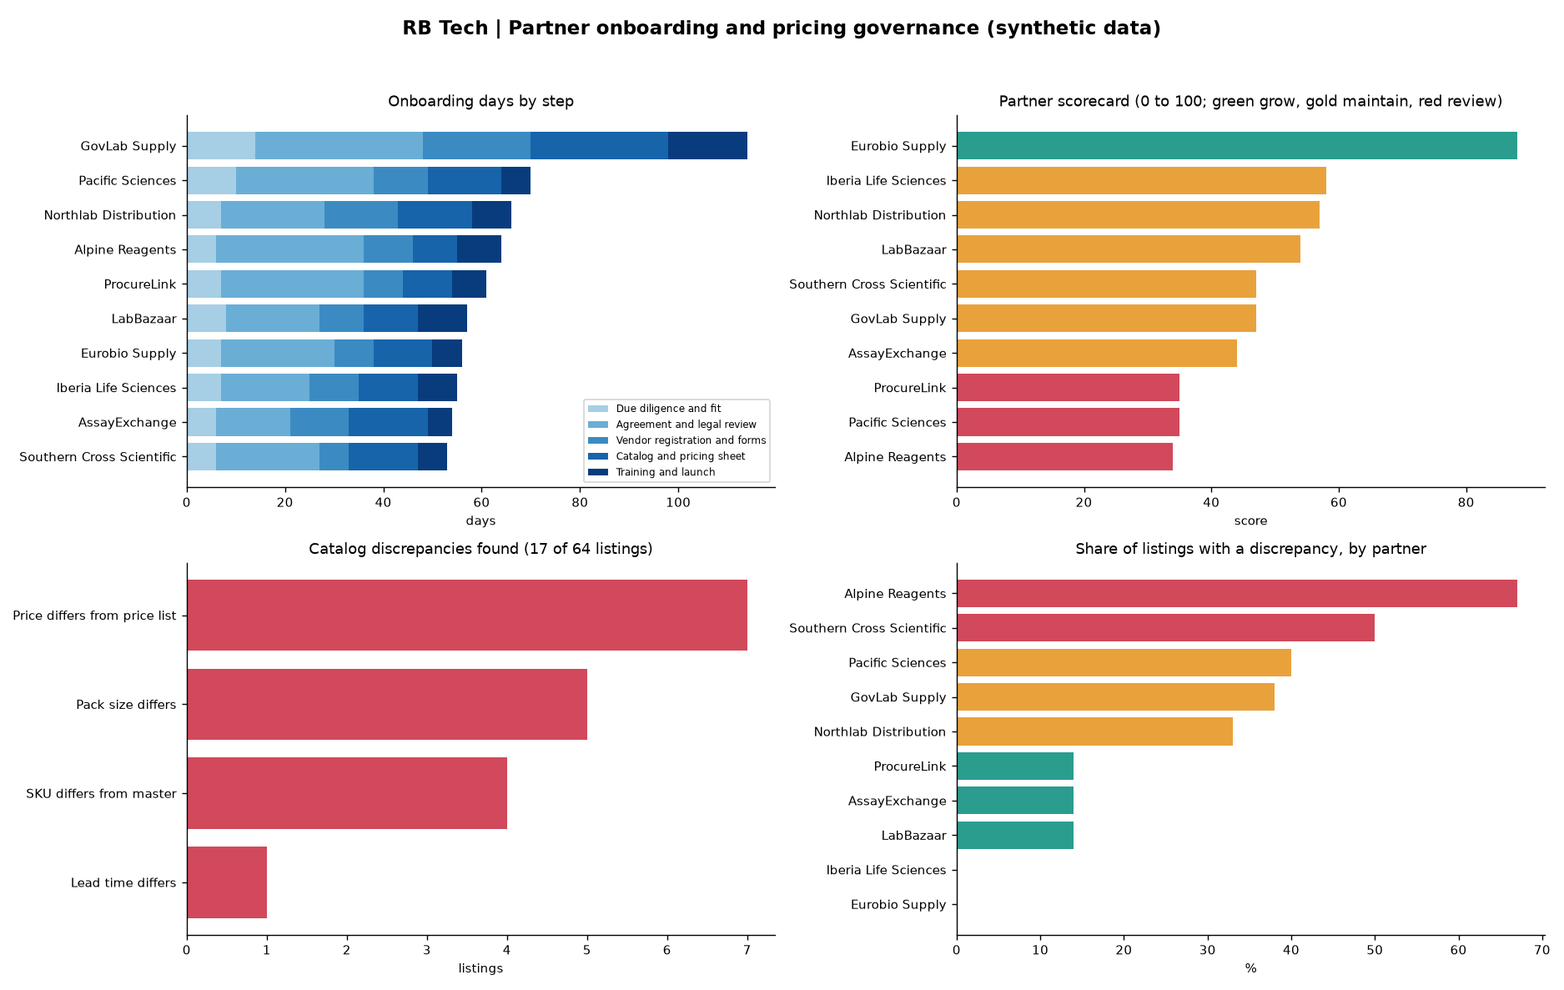
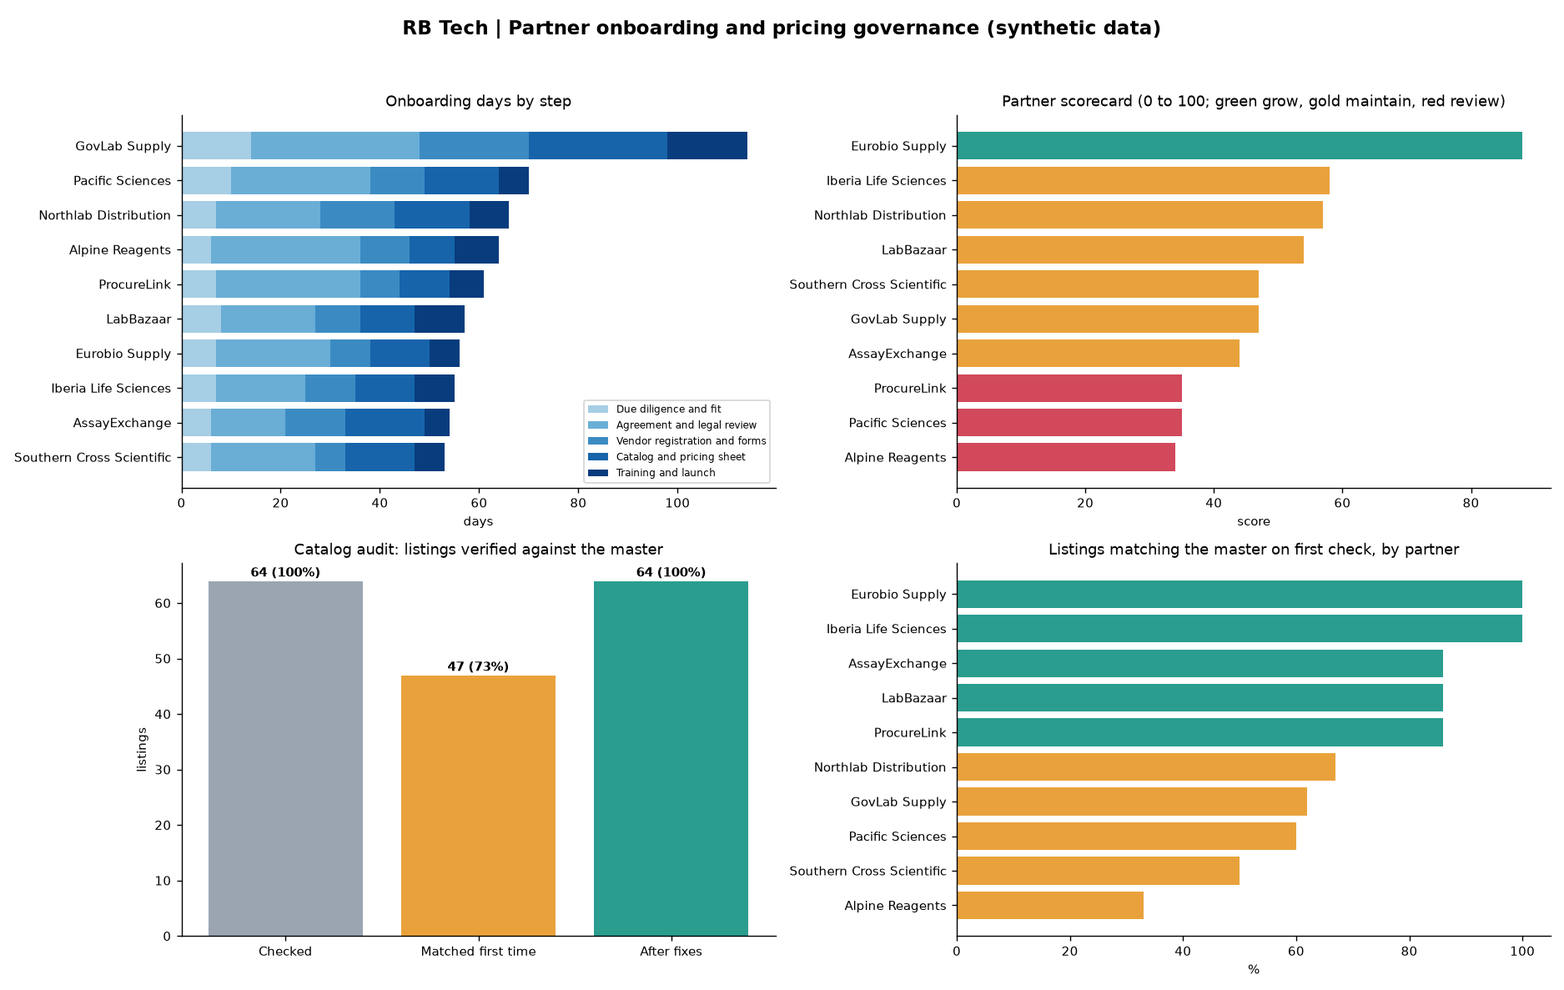
Add forecast suite (08), simplify forecast views (01), reframe listing audit as before/after accuracy (04, 14)

diff --git a/08-budget-forecast-pnl/scripts/forecast_suite.py b/08-budget-forecast-pnl/scripts/forecast_suite.py
@@ -1,0 +1,147 @@
+"""Forecast suite for RB Tech (fictional): five forecasts that answer five different questions.
+
+1 Inbound lead forecast  2 Deal and revenue plan (reverse funnel)  3 Revenue recognition forecast
+4 Product forecast       5 Demand (units and stock cover) forecast
+All numbers are invented. Run: python scripts/forecast_suite.py    Needs: pandas, numpy, matplotlib
+"""
+from pathlib import Path
+
+import matplotlib
+matplotlib.use("Agg")
+import matplotlib.pyplot as plt
+import numpy as np
+import pandas as pd
+
+ROOT = Path(__file__).resolve().parent.parent
+DATA, CHARTS = ROOT / "data", ROOT / "charts"
+DATA.mkdir(exist_ok=True)
+CHARTS.mkdir(exist_ok=True)
+rng = np.random.default_rng(808)
+M = pd.period_range("2026-01", "2026-12", freq="M")
+MN = [m.strftime("%b") for m in M]
+SEAS = np.array([.85, .95, 1.1, 1.05, .95, .9, .8, .85, 1.1, 1.25, 1.0, .8])   # seasonality index (conference season in spring and autumn)
+
+# ---------- 1. inbound lead forecast ----------
+# leads = visitors x visit-to-lead rate + webinar attendees x lead rate + event scans x qualify rate
+visitors = (4200 * SEAS * (1 + .015 * np.arange(12))).round()
+webinar_att = np.array([0, 60, 0, 80, 0, 70, 0, 0, 90, 0, 75, 0])
+event_scans = np.array([0, 0, 420, 0, 0, 380, 0, 0, 0, 520, 0, 0])
+leads = pd.DataFrame({"month": MN, "website": (visitors * .012).round(), "webinars": (webinar_att * .45).round(), "events": (event_scans * .30).round()})
+leads["total_leads"] = leads[["website", "webinars", "events"]].sum(axis=1)
+leads.to_csv(DATA / "forecast_inbound_leads.csv", index=False)
+
+# ---------- 2. deal and revenue plan (reverse funnel) ----------
+TARGET, DEAL = 240_000, 5_000
+deals_needed = TARGET / DEAL
+CH = {"Large conferences": (.26, 18), "Regional events": (.26, 16), "Field prospecting": (.19, 12), "Webinars": (.13, 10), "Inside sales": (.04, 5),
+      "Inbound organic": (.02, 4), "Launches": (.02, 4), "Beta programmes": (.02, 3), "Partners and distributors": (.02, 6), "Other": (.04, 4)}
+ch = pd.DataFrame([(k, v[0], TARGET * v[0], TARGET * v[0] / DEAL, v[1]) for k, v in CH.items()],
+                  columns=["channel", "share", "revenue_target", "deals_needed", "close_rate_pct_of_qualified"])
+ch["qualified_leads_needed"] = (ch.deals_needed / (ch.close_rate_pct_of_qualified / 100)).round()
+ch["deals_needed"] = ch.deals_needed.round(1)
+ch.to_csv(DATA / "forecast_deal_plan.csv", index=False)
+
+# ---------- 3. revenue recognition: orders won -> invoiced -> recognised ----------
+bookings = np.array([14, 18, 22, 25, 21, 24, 20, 19, 26, 31, 24, 18]) * 1000.0
+LAG = [.40, .35, .15, .10]          # share recognised in the month of the order and the next three months
+rec = np.zeros(12 + 3)
+for i, b in enumerate(bookings):
+    for k, s in enumerate(LAG):
+        rec[i + k] += b * s
+rec = rec[:12]
+rr = pd.DataFrame({"month": MN, "bookings": bookings, "recognised_revenue": rec.round(0), "gap": (bookings - rec).round(0)})
+rr["cumulative_deferred"] = rr.gap.cumsum()
+rr.to_csv(DATA / "forecast_revenue_recognition.csv", index=False)
+
+# ---------- 4. product forecast (revenue by product, with a launch ramp) ----------
+PROD = {"Endothelial cells": (6200, .010), "Progenitor cells": (5400, .008), "Neural media kit": (3000, .015), "Small molecules": (2200, .006)}
+pf = pd.DataFrame({"month": MN})
+for p, (base, g) in PROD.items():
+    pf[p] = (base * SEAS * (1 + g * np.arange(12))).round()
+launch = np.array([0, 0, 0, 0, 0, 0, 800, 2000, 3600, 4800, 5600, 6200.0])        # new product from July: ramps up over six months
+pf["New expansion medium (launch July)"] = launch
+pf["total"] = pf.drop(columns="month").sum(axis=1)
+pf.to_csv(DATA / "forecast_product_revenue.csv", index=False)
+
+# ---------- 5. demand forecast (units) and stock cover ----------
+UNITS = {"Endothelial cells": 9, "Progenitor cells": 8, "Neural media kit": 3, "Small molecules": 55}
+dm = pd.DataFrame({"month": MN})
+for p, u in UNITS.items():
+    dm[p] = (u * SEAS * (1 + .012 * np.arange(12)) * rng.uniform(.95, 1.05, 12)).round()
+stock = {"Endothelial cells": 70, "Progenitor cells": 40, "Neural media kit": 36, "Small molecules": 420}
+cover = {}
+for p in UNITS:
+    cum = dm[p].cumsum()
+    cover[p] = int((cum <= stock[p]).sum())          # months of cover from current stock at forecast demand
+cover = pd.Series(cover, name="months_of_cover")
+reorder = pd.DataFrame({"product": list(UNITS), "stock_on_hand": list(stock.values()), "avg_monthly_demand_next_6": [round(dm[p][6:].mean(), 1) for p in UNITS],
+                        "months_of_cover": cover.values})
+reorder["action"] = np.where(reorder.months_of_cover < 4, "Reorder now", np.where(reorder.months_of_cover < 6, "Reorder soon", "OK"))
+dm.to_csv(DATA / "forecast_demand_units.csv", index=False)
+reorder.to_csv(DATA / "forecast_stock_cover.csv", index=False)
+
+# ---------- 6. accuracy back-test: how wrong were last year's forecasts? ----------
+acc = pd.DataFrame({"forecast": ["Inbound leads", "Revenue plan by channel", "Revenue recognition", "Product revenue", "Unit demand"],
+                    "typical_error_pct": [12, 22, 6, 15, 18], "how_measured": ["Forecast vs actual leads, 3-month average", "Planned vs actual revenue by channel",
+                                                                                 "Recognised vs forecast recognised", "Forecast vs actual by product", "Forecast vs actual units shipped"]})
+acc.to_csv(DATA / "forecast_accuracy.csv", index=False)
+print(ch[["channel", "revenue_target", "deals_needed", "qualified_leads_needed"]].to_string(index=False)); print(rr.tail(3)); print(reorder)
+
+# ---------- dashboard: one plain chart per question ----------
+plt.rcParams.update({"font.size": 10, "axes.spines.top": False, "axes.spines.right": False})
+BLUE, TEAL, GOLD, RED, GREY = "#2B5C9E", "#2A9D8F", "#E9A23B", "#D1495B", "#9AA5B1"
+fig, ax = plt.subplots(2, 3, figsize=(20, 10.5))
+fig.suptitle("RB Tech | Forecast suite: five forecasts, five questions (synthetic data)", fontsize=14, weight="bold")
+
+ax[0, 0].bar(MN, leads.website, color=BLUE, label="Website")
+ax[0, 0].bar(MN, leads.webinars, bottom=leads.website, color=TEAL, label="Webinars")
+ax[0, 0].bar(MN, leads.events, bottom=leads.website + leads.webinars, color=GOLD, label="Events")
+ax[0, 0].legend(fontsize=8, ncol=3, loc="upper left")
+ax[0, 0].set(title="1  How many leads will arrive each month?", ylabel="leads")
+ax[0, 0].text(.01, -.2, "Leads = visitors x 1.2% + webinar attendees x 45% + event scans x 30%, times seasonality", transform=ax[0, 0].transAxes, fontsize=8, color="#444")
+
+c = ch.sort_values("revenue_target")
+ax[0, 1].barh(c.channel, c.revenue_target / 1000, color=BLUE)
+for y, (r, dl) in enumerate(zip(c.revenue_target / 1000, c.deals_needed)):
+    ax[0, 1].text(r + 1, y, f"${r:,.0f}K  ({dl:.0f} deal{'' if round(dl) == 1 else 's'})", va="center", fontsize=8)
+ax[0, 1].set_xlim(0, 85)
+ax[0, 1].set(title=f"2  Which channels must deliver the ${TARGET/1000:,.0f}K target?", xlabel="$K")
+ax[0, 1].text(.01, -.2, f"Deals needed = target / average deal (${DEAL:,}) = {deals_needed:.0f}; leads needed = deals / close rate", transform=ax[0, 1].transAxes, fontsize=8, color="#444")
+
+x = np.arange(12)
+ax[0, 2].bar(x - .2, bookings / 1000, .4, color=GREY, label="Orders won (bookings)")
+ax[0, 2].bar(x + .2, rec / 1000, .4, color=TEAL, label="Revenue recognised")
+ax[0, 2].set_xticks(x, MN)
+ax[0, 2].legend(fontsize=8, loc="upper left")
+ax[0, 2].set(title="3  When will won orders turn into recognised revenue?", ylabel="$K")
+ax[0, 2].text(.01, -.2, "Recognised = 40% in order month, then 35%, 15%, 10% over the next 3 months", transform=ax[0, 2].transAxes, fontsize=8, color="#444")
+
+cols = [c_ for c_ in pf.columns if c_ not in ("month", "total")]
+ax[1, 0].stackplot(MN, [pf[c_] / 1000 for c_ in cols], labels=cols, colors=[BLUE, TEAL, GOLD, GREY, RED])
+ax[1, 0].legend(fontsize=7, loc="upper left")
+ax[1, 0].set(title="4  Which products will drive revenue?", ylabel="$K per month")
+ax[1, 0].text(.01, -.2, "Product revenue = base x seasonality x growth; a new product follows a six-month ramp", transform=ax[1, 0].transAxes, fontsize=8, color="#444")
+
+for p, c_ in zip(UNITS, [BLUE, TEAL, GOLD, GREY]):
+    if p != "Small molecules":
+        ax[1, 1].plot(MN, dm[p], marker="o", ms=3, color=c_, label=p)
+ax[1, 1].legend(fontsize=8)
+ax[1, 1].set(title="5  How many units will customers order?", ylabel="units per month (small molecules not shown)")
+ax[1, 1].text(.01, -.2, "Demand = recent average x seasonality x growth; compared with stock on hand to set reorders", transform=ax[1, 1].transAxes, fontsize=8, color="#444")
+
+ax[1, 2].axis("off")
+tbl = ax[1, 2].table(cellText=reorder[["product", "stock_on_hand", "months_of_cover", "action"]].values, colLabels=["Product", "Stock", "Months of cover", "Action"], loc="upper center", cellLoc="center", colWidths=[.36, .14, .24, .26])
+tbl.auto_set_font_size(False)
+tbl.set_fontsize(9)
+tbl.scale(1, 1.8)
+for (r, c_), cell in tbl.get_celld().items():
+    if r > 0 and c_ == 3:
+        a_ = reorder.action.iloc[r - 1]
+        cell.set_facecolor({"Reorder now": "#F4C7CE", "Reorder soon": "#FBE5B6", "OK": "#CFE9E3"}[a_])
+ax[1, 2].set_title("5b  What should operations order?", pad=14)
+ax[1, 2].text(.5, .22, "Typical forecast error, last year\n" + "\n".join(f"{r.forecast}: about {r.typical_error_pct}%" for r in acc.itertuples()), ha="center", fontsize=9, transform=ax[1, 2].transAxes)
+for a_ in (ax[0, 0], ax[0, 2], ax[1, 0], ax[1, 1]):
+    a_.tick_params(axis="x", labelsize=8)
+fig.tight_layout(rect=[0, .02, 1, .95], h_pad=4)
+fig.savefig(CHARTS / "forecast_suite.png", dpi=125)
+print("done")

diff --git a/01-sales-kpi-dashboard/scripts/generate_data.py b/01-sales-kpi-dashboard/scripts/generate_data.py
@@ -196,21 +196,19 @@ heat_region.to_csv(DATA / "product_by_region.csv"); heat_qtr.to_csv(DATA / "prod
 
 fig2, a = plt.subplots(2, 3, figsize=(16, 8.8))
 fig2.suptitle("RB Tech | Forecast and product performance (synthetic data)", fontsize=14, weight="bold")
-xs = [str(x)[-5:] for x in list(actual.index) + list(months_ahead)]
-a[0, 0].bar(xs[:len(actual)], actual.values / 1000, color=BLUE, label="Actual closed-won")
-a[0, 0].bar(xs[len(actual):], fc.base.values / 1000, color=GOLD, label="Base forecast")
-a[0, 0].errorbar(xs[len(actual):], fc.base.values / 1000, yerr=[(fc.base - fc.low) / 1000, (fc.high - fc.base) / 1000], fmt="none", ecolor="k", capsize=4, label="Low to high range")
-a[0, 0].tick_params(axis="x", rotation=45)
-a[0, 0].legend(fontsize=7)
-a[0, 0].set(title="Monthly revenue: actual and forecast with range", ylabel="$K")
-tot_a = actual.sum()
-a[0, 1].plot(range(len(cum_actual)), cum_actual.values / 1000, color=BLUE, lw=2.2, label="Actual (cumulative)")
-for col_, c_, lab in [("low", GREY, "Low"), ("base", GOLD, "Base"), ("high", TEAL, "High")]:
-    path = [cum_actual.iloc[-1]] + list(cum_actual.iloc[-1] + fc[col_].cumsum())
-    a[0, 1].plot(range(len(cum_actual) - 1, len(cum_actual) + len(fc)), np.array(path) / 1000, color=c_, ls="--", marker="o", ms=3, label=f"{lab}: ${path[-1]/1000:,.0f}K")
-a[0, 1].set_xticks(range(len(xs)), xs, rotation=45)
-a[0, 1].legend(fontsize=7, loc="upper left")
-a[0, 1].set(title="Year-end outlook (cumulative)", ylabel="$K")
+am = [m.strftime("%b") for m in actual.index]
+fm = [m.strftime("%b") for m in months_ahead]
+a[0, 0].bar(am, actual.values / 1000, color=BLUE, label="Actual (closed-won)")
+a[0, 0].tick_params(axis="x", labelsize=8)
+a[0, 0].set(title="Revenue closed so far, by month", ylabel="$K")
+a[0, 0].legend(fontsize=8)
+tot_closed = actual.sum() / 1000
+ye = {"Closed so far": tot_closed, "Low": tot_closed + fc.low.sum() / 1000, "Base": tot_closed + fc.base.sum() / 1000, "High": tot_closed + fc.high.sum() / 1000}
+a[0, 1].bar(list(ye), list(ye.values()), color=[BLUE, GREY, GOLD, TEAL])
+for i_, v_ in enumerate(ye.values()):
+    a[0, 1].text(i_, v_ + 1.5, f"${v_:,.0f}K", ha="center", weight="bold")
+a[0, 1].set(title="Where the year may end: low, base and high", ylabel="$K")
+a[0, 1].text(.5, -.16, f"Forecast for {fm[0]} and {fm[1]}: base = weighted pipeline + 80% of recent run rate; low = base x 0.65; high = base x 1.35", transform=a[0, 1].transAxes, ha="center", fontsize=7.5, color="#444")
 bot = np.zeros(len(w_by_cat))
 for col_, c_ in [("COMMIT", TEAL), ("BEST_CASE", GOLD), ("PIPELINE", GREY)]:
     if col_ in w_by_cat:

diff --git a/14-partner-onboarding-and-pricing-governance/scripts/partner_program.py b/14-partner-onboarding-and-pricing-governance/scripts/partner_program.py
@@ -95,10 +95,14 @@ tc = {"Grow": TEAL, "Maintain": GOLD, "Review": RED}
 s2 = sc.sort_values("score")
 ax[0, 1].barh(s2.partner, s2.score, color=[tc[t] for t in s2.tier])
 ax[0, 1].set(title="Partner scorecard (0 to 100; green grow, gold maintain, red review)", xlabel="score")
-ax[1, 0].barh(by_type.index, by_type.values, color=RED)
-ax[1, 0].set(title=f"Catalog discrepancies found ({len(issues)} of {len(cat)} listings)", xlabel="listings")
-ax[1, 1].barh(by_partner.index, by_partner.values, color=[RED if v > 40 else GOLD if v > 25 else TEAL for v in by_partner.values])
-ax[1, 1].set(title="Share of listings with a discrepancy, by partner", xlabel="%")
+v3 = [len(cat), len(cat) - len(issues), len(cat)]
+ax[1, 0].bar(["Checked", "Matched first time", "After fixes"], v3, color=[GREY, GOLD, TEAL])
+for i_, v_ in enumerate(v3):
+    ax[1, 0].text(i_, v_ + .8, f"{v_} ({v_ / len(cat):.0%})", ha="center", weight="bold")
+ax[1, 0].set(title="Catalog audit: listings verified against the master", ylabel="listings")
+acc_p = (100 - by_partner).sort_values()
+ax[1, 1].barh(acc_p.index, acc_p.values, color=[TEAL if v >= 75 else GOLD for v in acc_p.values])
+ax[1, 1].set(title="Listings matching the master on first check, by partner", xlabel="%")
 fig.tight_layout(rect=[0, 0, 1, .95])
 fig.savefig(CHARTS / "partner_program_dashboard.png", dpi=125)
 print("done")

diff --git a/04-channel-sales/scripts/channel_model.py b/04-channel-sales/scripts/channel_model.py
@@ -176,9 +176,13 @@ ax[0].bar(tc.index, tc.values, color=[TEAL, GOLD, GREY])
 ax[0].set(title="Distributor candidates by score tier", ylabel="distributors")
 ax[1].barh(funnel.index[::-1], funnel.values[::-1], color=[GREY, RED, TEAL, BLUE, GOLD][::-1][:len(funnel)])
 ax[1].set(title="Distributor pipeline by stage")
-dc = disc.issue.value_counts()
-ax[2].barh(dc.index, dc.values, color=RED)
-ax[2].set(title=f"Cross-platform discrepancies found ({len(disc)})", xlabel="count")
+tot_l = sum(len(f) for f in feeds.values())
+ok_first = tot_l - len(disc)
+vals_ = [tot_l, ok_first, tot_l]
+ax[2].bar(["Checked", "Matched first time", "After fixes"], vals_, color=[GREY, GOLD, TEAL])
+for i_, v_ in enumerate(vals_):
+    ax[2].text(i_, v_ + 1, f"{v_} ({v_ / tot_l:.0%})", ha="center", weight="bold")
+ax[2].set(title="Pre-launch audit: every listing verified against the master", ylabel="listings")
 ax[3].stackplot(plan.quarter, plan.direct_revenue / 1000, plan.distributor_rev / 1000,
                 plan.marketplace_rev / 1000, labels=["Direct", "Distributor", "Marketplace"],
                 colors=[BLUE, TEAL, GOLD], alpha=.9)

diff --git a/08-budget-forecast-pnl/docs/forecast_types_and_equations.md b/08-budget-forecast-pnl/docs/forecast_types_and_equations.md
@@ -1,0 +1,29 @@
+# Forecast types and equations
+
+Five forecasts answer five different questions. Each has one owner, one equation and one accuracy measure.
+
+| # | Forecast | Question it answers | Equation | Inputs | Owner | Reviewed |
+|---|---|---|---|---|---|---|
+| 1 | Inbound lead forecast | How many leads will arrive each month? | Leads = website visitors x visit-to-lead rate + webinar attendees x lead rate + event badge scans x qualify rate, each times a seasonality index | Web analytics, event and webinar calendar, past rates | Marketing | Monthly |
+| 2 | Deal and revenue plan (reverse funnel) | Which channels must deliver the target, and how many leads does each need? | Deals needed = target revenue / average deal size. Channel revenue = target x channel share. Qualified leads needed = channel deals / channel close rate | Target, average deal, channel shares, close rates, capacity ceiling | Commercial operations | Quarterly |
+| 3 | Revenue recognition forecast | When will won orders turn into recognised revenue? | Recognised(month) = sum over k of Orders won(month - k) x share recognised in month k, for example 40% / 35% / 15% / 10%; milestone projects follow their schedule | Bookings, invoicing lag, shipment dates, project milestones | Finance with commercial operations | Monthly |
+| 4 | Product forecast | Which products will drive revenue, including launches? | Product revenue = base units x price x seasonality x growth; a launch follows a ramp curve (for example six months to steady state) | Product history, launch plan, price list | Product and commercial operations | Monthly |
+| 5 | Demand forecast (units and stock cover) | How many units will customers order, and what should operations order? | Demand = recent average x seasonality x growth. Months of cover = stock on hand / forecast monthly demand. Reorder when cover is below lead time plus safety buffer | Orders, forecasts 2 and 4, stock, supplier lead times | Operations | Monthly |
+
+## How they connect
+Forecast 2 sets the plan. Forecast 1 shows whether lead flow supports it. Forecast 4 splits the plan by product. Forecast 5 turns product forecasts into units and orders for operations. Forecast 3 turns won orders into recognised revenue for the P&L.
+
+## Accuracy tracking
+| Forecast | Typical error (synthetic) | Measured as |
+|---|---|---|
+| Inbound leads | about 12% | Forecast vs actual leads, 3-month average |
+| Revenue plan by channel | about 22% | Planned vs actual revenue by channel |
+| Revenue recognition | about 6% | Recognised vs forecast |
+| Product revenue | about 15% | Forecast vs actual by product |
+| Unit demand | about 18% | Forecast vs actual units shipped |
+
+## Rules
+- Every forecast states its equation and inputs on the page.
+- Seasonality indexes are rebuilt each year from actual months.
+- Plans are never changed to match actuals; a re-forecast is a new version with the date.
+- Accuracy is reviewed monthly, and any forecast with error above its tolerance gets a change to its inputs.

diff --git a/08-budget-forecast-pnl/README.md b/08-budget-forecast-pnl/README.md
@@ -31,6 +31,19 @@ Leadership needed one view of how the year was going against budget, a forecast 
 **Won to invoiced:** invoices exceed CRM closed-won by about 3.7% because shipping and tax are billed but not in deal amounts, partly offset by orders won but not yet shipped.
 **Scenarios:** if the pipeline converts 15% worse, full-year operating profit drops to about -$46K; a 10% hiring increase costs about $11K more.
 
+## Forecast suite: five forecasts, five questions
+![Forecast suite](charts/forecast_suite.png)
+
+| Forecast | Question | Equation in one line |
+|---|---|---|
+| Inbound lead forecast | How many leads will arrive each month? | Visitors x rate + webinar attendees x rate + event scans x rate, times seasonality |
+| Deal and revenue plan | Which channels must deliver the target? | Deals needed = target / average deal; qualified leads = deals / close rate |
+| Revenue recognition forecast | When do won orders become revenue? | Recognised = share of each month's orders recognised over the following months |
+| Product forecast | Which products drive revenue, including launches? | Base x price x seasonality x growth, with a launch ramp |
+| Demand forecast | How many units, and what should operations order? | Recent average x seasonality x growth; reorder when months of cover run low |
+
+Equations, inputs, owners and accuracy tracking are in [docs/forecast_types_and_equations.md](docs/forecast_types_and_equations.md).
+
 ## Design decisions
 1. **Budget by route to market**, not just by total, so channel ramp assumptions are explicit and testable.
 2. **Forecast from drivers**, not from last month: blend recent run-rate with weighted pipeline, then apply seasonality.
@@ -40,12 +53,13 @@ Leadership needed one view of how the year was going against budget, a forecast 
 6. **Scenarios for decisions**, not just reporting: what happens if conversion drops, costs rise or hiring goes ahead.
 
 ## Documents and diagrams
-- [docs/budget_method.md](docs/budget_method.md) · [docs/forecast_method.md](docs/forecast_method.md) · [docs/monthly_close_and_review.md](docs/monthly_close_and_review.md)
+- [docs/forecast_types_and_equations.md](docs/forecast_types_and_equations.md) · [docs/budget_method.md](docs/budget_method.md) · [docs/forecast_method.md](docs/forecast_method.md) · [docs/monthly_close_and_review.md](docs/monthly_close_and_review.md)
 - [diagrams/planning_cycle.md](diagrams/planning_cycle.md) · [diagrams/revenue_bridge.md](diagrams/revenue_bridge.md)
 
 ## Reproduce
 ```bash
 pip install pandas numpy matplotlib
+python scripts/forecast_suite.py          # the five forecasts
 python scripts/budget_forecast_pnl.py   # writes data/*.csv and charts/budget_forecast_overview.png
 ```
 

diff --git a/14-partner-onboarding-and-pricing-governance/README.md b/14-partner-onboarding-and-pricing-governance/README.md
@@ -17,10 +17,10 @@ Channel growth meant more partners, each with its own forms, price sheets and ca
 | Finding | Evidence |
 |---|---|
 | Government marketplaces take about twice as long | The slowest onboarding is 114 days against 53 to 70 for distributors and commercial marketplaces; agreement review (about 24 days on average) and the catalog sheet (14 days) are the longest steps |
-| One in four listings does not match the master | 17 of 64 listings (27%) differ in price, pack size, SKU or lead time |
-| Price is the most common mismatch | Seven price differences, five pack-size, four SKU and one lead-time difference |
+| The audit takes accuracy from 73% to 100% | 47 of 64 listings matched the master on the first check; the other 17 (price, pack size, SKU or lead time) were corrected, so every listing matched at launch |
+| Most fixes are simple | Price (7) and pack size (5) account for most corrections, so a standard pricing sheet prevents most of them |
 | One partner stands out | One distributor scores 88 against 34 to 58 for the rest; three partners fall into the review tier |
-| Errors cluster by partner | Three partners account for 10 of the 17 mismatches, so fixes are targeted, not general |
+| Fixes are targeted | Three partners account for 10 of the 17 corrections, so training and checklists go where they matter most |
 
 ## How the data is used
 - **Onboarding:** each new partner has a checklist, an owner and a target of 60 days.

diff --git a/04-channel-sales/README.md b/04-channel-sales/README.md
@@ -30,7 +30,7 @@ Revenue came almost entirely from direct sales. International customers were har
 | Distributor candidates scored | 40 (10 Tier 1, 13 Tier 2, 17 Tier 3) |
 | Pipeline | 25 contacted, 10 in discussion, 1 in agreement review, 1 signed, 3 not pursued (competitor-exclusive) |
 | Product master | 36 SKUs fed to 4 platform formats (LabBazaar, ProcureLink, GovLab Supply, AssayExchange) |
-| Discrepancies caught | 5 (SKU, price, classification code, lead time, duplicate listing), each traced to a platform and a SKU |
+| Pre-launch audit | Every listing verified against the product master before go-live; the few differences found (SKU, price, classification code, lead time, duplicate listing) were traced to a platform and a SKU and corrected, so all listings matched at launch |
 | Channel share plan | 2% to 21% of revenue over six quarters (60% distributors, 40% marketplaces) |
 
 ## Diagrams and documents

diff --git a/01-sales-kpi-dashboard/README.md b/01-sales-kpi-dashboard/README.md
@@ -20,8 +20,8 @@ Two Power BI reports fed from the CRM, with one shared set of definitions:
 
 | View | What it answers |
 |---|---|
-| Monthly revenue, actual and forecast with a low-to-high range | What have we closed, and what range should leadership expect for the rest of the year |
-| Year-end outlook (cumulative) | Where the year lands under low, base and high cases |
+| Revenue closed so far, by month | What have we closed this year |
+| Where the year may end: low, base and high | What range should leadership expect at year end |
 | Weighted open pipeline by forecast category | How much of the forecast is commit, best case or early pipeline |
 | Product by region, by quarter and by rep (heatmaps) | Which products sell where, when and through whom, so gaps and concentration are visible |
 
